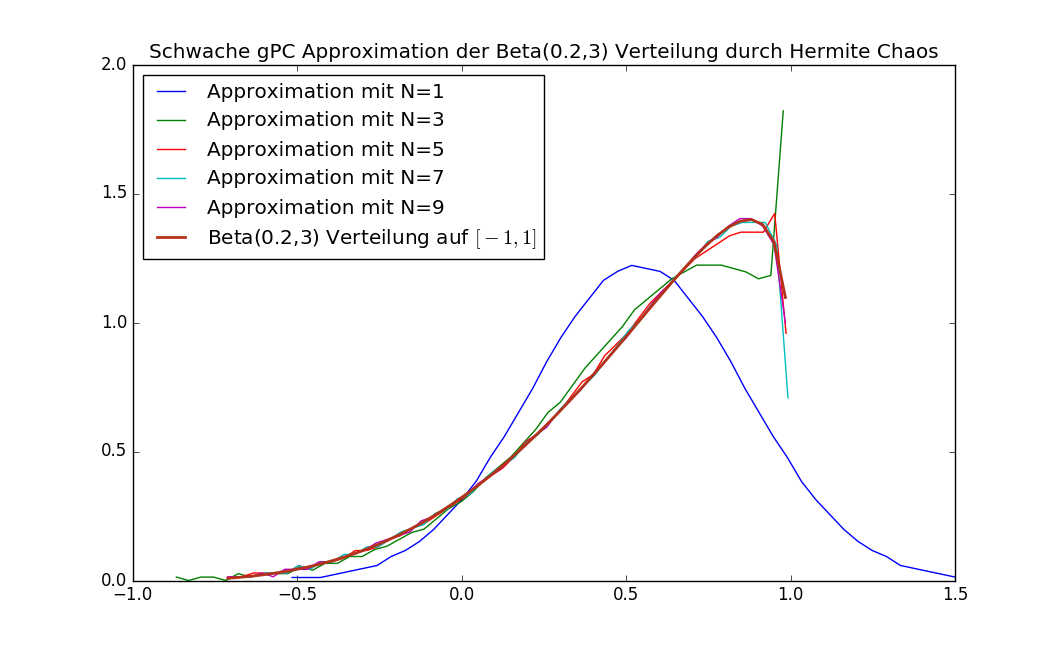
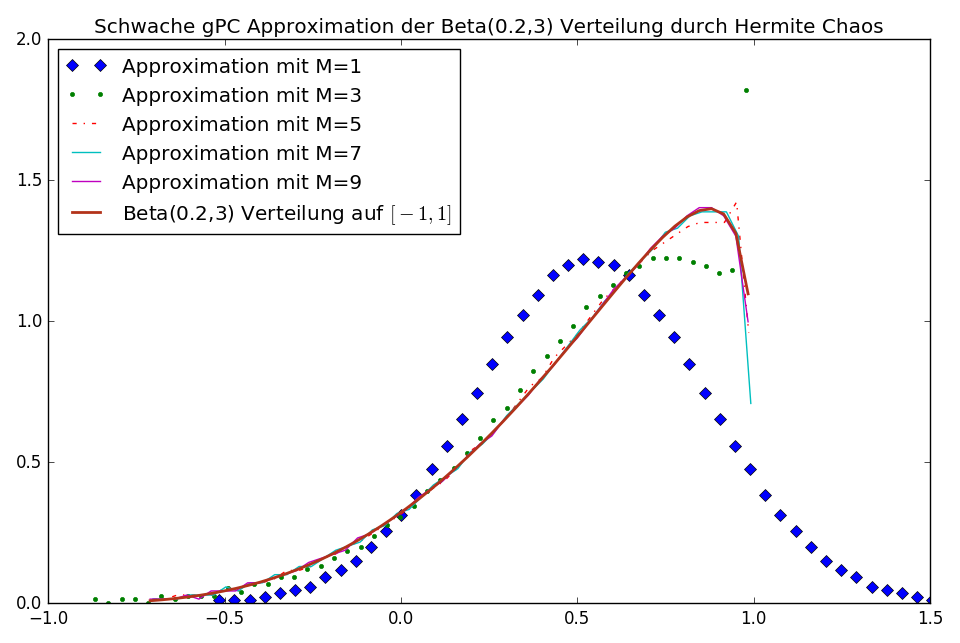
Starting chapter 4 and explaining interpolation.

diff --git a/thesis/tex/Chapters/Chapter3.tex b/thesis/tex/Chapters/Chapter3.tex
@@ -9,8 +9,8 @@ erfüllt wird.
 \begin{mathdef}[General Polynomial Chaos Basis]
 \label{def:gpc}
 Sei $Y$ eine reelle Zufallsvariable mit Verteilungsfunktion $F_Y(y)=P(Y\le y)$ und endlichen Momenten
-\[\E\left[|Y|^{2m}\right]=\int |y|^{2m}dF_Y(y)<\infty,\quad m\in \N_0\]
-Existieren Polynome $\Phi_i\in\Poly_i$ welche die Bedingung
+\[\E\left[|Y|^{2\ell}\right]=\int |y|^{2\ell}dF_Y(y)<\infty,\quad \ell\in \N_0\]
+Existieren Polynome $\Phi_i\in\Poly_i$, also insbesondere $\Phi_0\equiv const$, welche die Bedingung
 \begin{equation}
 \label{eqn:gpc_basicortho}
 \E\left[\Phi_i(Y)\Phi_j(Y)\right]=\delta_{ij},\quad i,j\in\N_0
@@ -41,23 +41,23 @@ Stetig & Normal & Hermite & $(-\infty,\infty)$ \\
  & Gleich & Legendre & $[-1,1]$ \\  
 \hline 
 Diskret & Poisson & Charlier & $\lbrace 0,1,2,\dots\rbrace$ \\ 
- & Binomial & Krawtchouk & $\lbrace 0,1,\dots,P\rbrace$ \\ 
+ & Binomial & Krawtchouk & $\lbrace 0,1,\dots,E\rbrace$ \\ 
  & Negativ Binomial & Meixner & $\lbrace 0,1,2,\dots\rbrace$ \\  
- & Hypergeometrisch & Hahn & $\lbrace 0,1,\dots,P\rbrace$
+ & Hypergeometrisch & Hahn & $\lbrace 0,1,\dots,E\rbrace$
 \end{tabular}
-\caption{gPC Beziehung zwischen orthogonalen Polynombasen und stochastischen Verteilungen. $P\in\N_0$ ist dabei ein beliebiger Parameter für gewisse diskrete Verteilungen.}
+\caption{gPC Beziehung zwischen orthogonalen Polynombasen und stochastischen Verteilungen. $E\in\N_0$ ist dabei ein beliebiger Parameter für gewisse diskrete Verteilungen.}
 \label{table:chaos}
 \end{table}
 
 Das Ziel ist es nun, mithilfe einer gPC Orthonormalbasis eine Funktion $f(Y)$ einer Zufallsvariablen $Y$ zu approximieren. Wir wollen nun einen Einblick dazu bekommen, was an dieser Stelle mit "`approximieren"' gemeint ist.
 \begin{mathdef}[Starke gPC Konvergenz]
-Sei $f(Y)$ eine Funktion einer Zufallsvariablen $Y$ mit Dichte $\rho_Y$ und Träger $I_Y$. Eine general Polynomial Chaos Approximation $f_M(Y)\in\Poly_N(Y)$ konvergiert in einem starken Sinne gegen $F(Y)$, wenn \[\norm{f(Y)-f_M(Y)}_{L_{\rho_Y}^2(I_Y)}\to 0\text{ für }{M\to\infty}\]
+Sei $f(Y)$ eine Funktion einer Zufallsvariablen $Y$ mit Dichte $\rho_Y$ und Träger $I_Y$. Eine general Polynomial Chaos Approximation $f_M(Y)\in\Poly_M(Y)$ konvergiert in einem starken Sinne gegen $F(Y)$, wenn \[\norm{f(Y)-f_M(Y)}_{L_{\rho_Y}^2(I_Y)}\to 0\text{ für }{M\to\infty}\]
 \end{mathdef}
 Die starke gPC Konvergenz entspricht also direkt der in Kapitel \ref{sec:poly_approx} vorgestellten spektralen Konvergenz, entsprechend ist die Konvergenzordnung abhängig von der Glattheit der Funktion $f$. Ohne Beweis folgt aus der starken gPC Konvergenz auch die Konvergenz in Wahrscheinlichkeit und schlussendlich die Konvergenz in Verteilung.
 \begin{mathbem}
 Ist die Funktion $f$ oder ihre Abhängigkeit von der Zufallsvariablen $Y$ nicht konkret bekannt, sondern liegt diese beispielsweise nur als Verteilungsfunktion vor, so ist es dennoch möglich eine gPC Approximation in einem schwachen Sinne zu erhalten. Für Details sei auf \autocite[Kapitel 5.1.2]{dongbinxiu2010} verwiesen.\\
-Ein illustratives Beispiel ist in Abbildung \ref{fig:gpcweakconv} gegeben. Dort verwenden wir die Bestapproximation bezüglich $L_\rho^2(-\infty,\infty)$, wobei $\rho$ die Dichtefunktion der Normalverteilung ist, die Orthonormalbasis aus den Hermite-Polynomen $H_k$ besteht und $Y$ eine normalverteilte Zufallsvariable ist. Es ist
-\[f_M(Y)=P_M(f)=\sum_{m=0}^M\hat{f}_mH_m(Y), \quad \hat{f}_m=\E[f(Y)H_m(Y)]\]
+Ein illustratives Beispiel ist in Abbildung \ref{fig:gpcweakconv} gegeben. Dort verwenden wir die Bestapproximation bezüglich $L_\rho^2(-\infty,\infty)$, wobei $\rho$ die Dichtefunktion der Normalverteilung ist, die Orthonormalbasis aus den Hermite-Polynomen $H_m$ besteht und $Y$ eine normalverteilte Zufallsvariable ist. Es ist
+\[f_M(Y)=\sum_{m=0}^M\hat{f}_mH_m(Y), \quad \hat{f}_m=\E[f(Y)H_m(Y)]\]
 die Bestapproximation an die Funktion $f(Y)$ in $\Poly_M(Y)$. Wir nehmen an, dass wir nur die Verteilung von $Z=f(Y)$ kennen und $Z\sim\text{Beta}(0.2,3.)$ in $[-1,1]$.\\
 Dann tritt bei der Berechnung von $\E[ZH_m(Y)]$ eine Schwierigkeit auf: es ist in dieser Form nicht möglich den Erwartungswert zu berechnen, da die Zufallsvariablen $Z$ und $H_m(Y)$ zu verschiedenen Wahrscheinlichkeitsräumen gehören. Hierzu ist es nun hilfreich, mithilfe der Inversionsmethode die beiden Verteilungen auf einen gemeinsamen Wahrscheinlichkeitsraum $\mathcal{U}(0,1)$ zu "`normieren"'. Dann gilt
 \[\hat{f}_m=\E_U\left[F_Z^{-1}(U)H_m(F_Y^{-1}(U))\right]=\int_0^1F_Z^{-1}(u)H_m(F_Y^{-1}(u))du\]
@@ -72,26 +72,26 @@ und $f_M(Y)$ konvergiert in Verteilung gegen $f(Y)$ für $M\to\infty$.
 \section{Mehrdimensionale Zufallsräume}
 Wie bereits diskutiert, sei der Zufallsraum durch einen Zufallsvektor $Y=(Y_1,\dots,Y_N)^T$ mit stochastisch unabhängigen Komponenten $Y_i$ mit bekannter Verteilung vollständig parametrisiert. Als mehrdimensionale Erweiterung von Definition \ref{def:gpc} führen wir an dieser Stelle das multivariate gPC ein.
 \begin{mathdef}[Multivariate gPC]
-Sei $M\in\N_0$ der fest gewählte maximale Polynomgrad. Sei weiter $Y=(Y_1,\dots,Y_N)^T$ ein Zufallsvektor, dessen unabhängige Komponenten $Y_k$ eine gPC Basis $\lbrace \Phi_i^{(k)}\in\Poly_M(Y_k)\mid i=1,\dots,M\rbrace$ besitzen. Ist $m=(m_1,\dots,m_N)\in\N_0^N$ ein Multi-Index mit $|m|=m_1+\dots+m_N$, so sind die $N$-variate gPC Basis Funktionen vom Grad $M$ definiert als 
-\[\Phi_m(Y)=\Phi_{m_1}(Y_1)\cdot\ldots\cdot\Phi_{m_N}(Y_N),\quad 0\le |m|\le M\]
+Sei $P\in\N_0$ der fest gewählte maximale Polynomgrad. Sei weiter $Y=(Y_1,\dots,Y_N)^T$ ein Zufallsvektor, dessen unabhängige Komponenten $Y_k$ eine gPC Basis $\lbrace \Phi_i^{(k)}\in\Poly_P(Y_k)\mid i=0,\dots,P\rbrace$ besitzen. Ist $m=(m_1,\dots,m_N)\in\N_0^N$ ein Multi-Index mit $|m|=m_1+\dots+m_N$, so sind die $N$-variate gPC Basis Funktionen vom Grad $P$ definiert als 
+\[\Phi_m(Y)=\Phi_{m_1}(Y_1)\cdot\ldots\cdot\Phi_{m_N}(Y_N),\quad 0\le |m|\le P\]
 \end{mathdef}
 
 \begin{mathbem}
-Der von den multivariate gPC Funktionen aufgespannte Raum $\Poly_M^N$ ist der Raum aller Polynome vom Grad höchstens $M$ in $N$ Variablen
-\[\Poly_M^N(Y)=\left\lbrace p\colon I_Y\to \R \mid p(Y)=\sum_{|m|\le M}c_m\Phi_m(Y)\right\rbrace\]
-Die Dimension des Raumes ist $\dim\Poly_M^N=\binom{M+N}{M}=\frac{(M+N)!}{M!N!}$.
+Der von den multivariate gPC Funktionen aufgespannte Raum $\Poly_P^N$ ist der Raum aller Polynome vom Grad höchstens $P$ in $N$ Variablen
+\[\Poly_P^N(Y)=\left\lbrace p\colon I_Y\to \R \mid p(Y)=\sum_{|m|\le P}c_m\Phi_m(Y)\right\rbrace\]
+Die Dimension des Raumes ist $\dim\Poly_P^N=\binom{P+N}{P}=\frac{(P+N)!}{P!N!}$.
 \end{mathbem}
 \begin{proof}
 Wir zeigen die zweite Aussage über die Dimension des Raumes. Die Beweisidee kann unter Verwendung von stochastischen Kombinationen direkt verwendet werden, um einen Algorithmus zur Generierung der Multi-Indices zu bekommen.\\
 Da die Monome $x^m=x_1^{m_1}\dots x_N^{m_N}$ für verschiedene $m=(m_1,\dots,m_N)$ linear unabhängig und erzeugend sind, ist die Aussage äquivalent zur Aussage
-\[\binom{M+N}{M}=\#\lbrace m\in\N_0^N \mid |m|\le M\rbrace\] 
-Wir berechnen dazu $a_j=\#\lbrace m\in\N_0^N \mid |m|=j\rbrace$ für $j=0,\dots,M$. Dazu überlegen wir uns, dass $a_j=\#\lbrace \overline{m}\in\N^N \mid |\overline{m}|=j+N\rbrace$ wegen der Bijektion $m=(m_1,\dots,m_N)=(\overline{m}_1-1,\dots,\overline{m}_N-1)=\overline{m}-(1,\dots,1)$. Wir wollen nun herausfinden, wieviele Zerlegungen der Zahl $j+N=|\overline{m}|$ möglich sind und schreiben dazu symbolisch
+\[\binom{P+N}{P}=\#\lbrace m\in\N_0^N \mid |m|\le P\rbrace\] 
+Wir berechnen dazu $a_j=\#\lbrace m\in\N_0^N \mid |m|=j\rbrace$ für $j=0,\dots,P$. Dazu überlegen wir uns, dass $a_j=\#\lbrace \overline{m}\in\N^N \mid |\overline{m}|=j+N\rbrace$ wegen der Bijektion $m=(m_1,\dots,m_N)=(\overline{m}_1-1,\dots,\overline{m}_N-1)=\overline{m}-(1,\dots,1)$. Wir wollen nun herausfinden, wieviele Zerlegungen der Zahl $j+N=|\overline{m}|$ möglich sind und schreiben dazu symbolisch
 \[\overline{m}=\underbrace{(1\_1\_1\_\dots 1\_1)}_{j+N\text{ Einsen getrennt von } j+N-1 \text{ Blanks}}\]
 Um eine mögliche Darstellung zu bekommen, ersetzen wir $N-1$ Blanks durch ein Komma und die restlichen durch ein Plus, beispielsweise für $j=4,N=3$
 \[(1+1+1,1,1+1+1+1+1)=(3,1,5)=\overline{m}\]
 Dies sind exakt alle Möglichkeiten $N$ positive Zahlen deren Summe $j+N$ ist zu erhalten und es ist $a_j=\binom{j+N-1}{N-1}$.
 Schlussendlich gilt für die Summe von verschobenen Binomialkoeffizienten 
-\[\sum_{j=0}^Ma_j=\sum_{j=0}^M\binom{j+N-1}{N-1}\stackrel{\text{ind.}}{=}\binom{N+M}{N}\]
+\[\sum_{j=0}^Pa_j=\sum_{j=0}^P\binom{j+N-1}{N-1}\stackrel{\text{ind.}}{=}\binom{N+P}{N}=\binom{N+P}{P}\]
 \end{proof}
 In Zukunft wird es sowohl für die theoretische Notation, als auch die praktische Implementierung häufig praktischer sein, die Multi-Indices $m\in\N_0^M$ durchzunummerieren und äquivalent zum eindimensionalen Fall zu benutzen. Dies ist gerechtfertigt, da sich die zugehörigen multivariaten Polynome ähnlich verhalten. Zum Beispiel gilt aufgrund des gewählten Tensorproduktansatzes und der stochastischen Unabhängigkeit der Komponenten von $Y$ das mehrdimensionale Pendant zur Orthogonalitätsbedingung (\ref{eqn:gpc_ortho}) für $i,j\in\N_0^N$
 \begin{equation}
@@ -104,7 +104,7 @@ In Zukunft wird es sowohl für die theoretische Notation, als auch die praktisch
 &=\delta_{i_1j_1}\dots \delta_{i_Nj_N}=\delta_{ij}
 \end{split}
 \end{equation}
-In diesem Sinne wird dann für den Fall der mehrdimensionalen Bestapproximation $P_Mf=\sum_{m=0}^M\hat{f}_mH_m(Y)$ die Beschränkung der Summe $M$ gleichgesetzt mit der Anzahl an Basispolynomen $\binom{M+N}{N}$.\\
+In diesem Sinne gilt dann für die mehrdimensionale Bestapproximation die selbe Darstellung $f_M(Y)=\sum_{m=0}^M\hat{f}_mH_m(Y)$, wobei $M+1=\binom{N+P}{P}$ die Anzahl an Basispolynomen ist und $P$ die Schranke der Multi-Indices $|m|\le P$.\\
 Für eine eindeutige Nummerierung der Indices benötigen wir eine Sortierung. Wir einigen uns als Sortierung der Indices auf die Termordnung (engl. \emph{graded lexicographic order}), die für $i,j\in\N_0^N$ gegeben ist durch 
 \[i>j \equivalent |i|\ge |j| \text{ und der erste nicht-negative Eintrag von } i-j \text { ist positiv}\]
 Für $N=3$ sind für $|m|=0,\dots,2$ die ersten Multi-Indices gegeben durch
@@ -114,11 +114,11 @@ Für $N=3$ sind für $|m|=0,\dots,2$ die ersten Multi-Indices gegeben durch
 &(2,0,0)<(1,1,0)<(1,0,1)<(0,2,0)<(0,1,1)<(0,0,2)\\
 \end{align*}
 \begin{mathbem}
-Die Wahl der beschränkten Summe $|m|\le M$ für $m\in\N_0^N$ ist eine Einschränkung an den Polynomraum, den wir für die Approximation verwenden wollen. Häufig ist für theoretische Überlegungen der volle Tensorproduktraum mit $m_i\le M$ für $i=1,\dots,N$ der Raum der Wahl, da sich dann Ergebnisse aus dem eindimensionalen direkter auf den mehrdimensionalen Fall übertragen lassen. Die Dimension des vollen Tensorproduktraumes beträgt jedoch $(M+1)^N$, was bereits für kleine Dimensionen $N$ eine große Anzahl an Basispolynomen bedeuten würde und folglich einen hohen Rechenzeitaufwand (vgl. Tabelle \ref{table:poly_space_dim}).
+Die Wahl der beschränkten Summe $|m|\le P$ für $m\in\N_0^N$ ist eine Einschränkung an den Polynomraum, den wir für die Approximation verwenden wollen. Häufig ist für theoretische Überlegungen der volle Tensorproduktraum mit $m_i\le P$ für alle $i=1,\dots,N$ der Raum der Wahl, da sich dann Ergebnisse aus dem eindimensionalen direkter auf den mehrdimensionalen Fall übertragen lassen. Die Dimension des vollen Tensorproduktraumes beträgt jedoch $(P+1)^N$, was bereits für kleine Dimensionen $N$ eine große Anzahl an Basispolynomen bedeuten würde und folglich einen hohen Rechenzeitaufwand (vgl. Tabelle \ref{table:poly_space_dim}).
 \begin{table}
 \centering
 \begin{tabular}{c|cc}
-$M$ & $\binom{N+M}{N}$ & $(M+1)^N$\\
+$P$ & $\binom{P+M}{P}$ & $(P+1)^N$\\
 \hline
 1  &  5  &  16 \\
 2  &  15  &  81 \\
@@ -128,7 +128,7 @@ $M$ & $\binom{N+M}{N}$ & $(M+1)^N$\\
 10  &  1,001  &  14,641 \\
 100  &  4,598,126  &  104,060,401 
 \end{tabular}
-\caption{Vergleich der Dimensionen der verschiedenen Approximationsräume für $N=4$ und unterschiedliche $M$.}
+\caption{Vergleich der Dimensionen der verschiedenen Approximationsräume für $N=4$ und unterschiedliche $P$.}
 \label{table:poly_space_dim}
 \end{table}
 \end{mathbem}
@@ -136,7 +136,7 @@ Als weitere Motivation für unsere Wahl des Polynomraums geben wir ein Beispiel 
 \begin{mathbsp}
 \label{bsp:bestapproxcoeffs2d}
 Sei $N=2, Y=(Y_1,Y_2)^T$ mit $Y_1\sim \mathcal{U}(-1,1), Y_2\sim\mathcal{N}(0,1)$ und die zu approximierende Funktion $f(y)=f(y_1,y_2)=(2+\sin(y_1\cdot y_2))^{-2}$.\\
-Wir betrachten die Koeffizienten $\hat{f}_m$ der Bestapproximation \[P_Mf(y)=\sum_{m_1=0}^M\sum_{m_2=0}^M\hat{f}_m\Phi_m(y)\] im vollständigen Tensorproduktraum. Dabei wählen wir die zu den Verteilungen passenden Polynome $\Phi_m(y)=L_{m_1}(y_1)H_{m_2}(y_2)$, wobei $L_{m_1}$ die normierten Legendre-Polynome und $H_{m_2}$ die normierten Hermite-Polynome sind. Für die Koeffizienten gilt
+Wir betrachten die Koeffizienten $\hat{f}_m$ der Bestapproximation \[f_M(y)=\sum_{m_1=0}^P\sum_{m_2=0}^P\hat{f}_m\Phi_m(y)\] im vollständigen Tensorproduktraum. Dabei wählen wir die zu den Verteilungen passenden Polynome $\Phi_m(y)=L_{m_1}(y_1)H_{m_2}(y_2)$, wobei $L_{m_1}$ die normierten Legendre-Polynome und $H_{m_2}$ die normierten Hermite-Polynome sind. Für die Koeffizienten gilt
 \[\hat{f}_m=\int_{-1}^1\int_{-\infty}^\infty f(y_1,y_2)\cdot \onehalf \cdot \frac{1}{\sqrt{2\pi}}e^{-\frac{y_2^2}{2}}\cdot L_{m_1}(y_1)\cdot H_{m_2}(y_2)dy_2dy_1\]
 In Abbildung \ref{fig:bestapproxcoeffs2d} ist der Betrag der Koeffizienten $|\hat{f}_m|$ in einem Gitter eingezeichnet. Die schwarze Linie symbolisiert die Grenze derjenigen Indices, die $|m|\le 22$ erfüllen. Wir sehen, dass die Koeffizienten im oberen rechten Eck, die zu Polynomen wie $L_{17}H_{17}$ gehören, betragsmäßig sehr klein in der Größenordnung $10^{-6}$ sind. Die volle Tensorapproximation bietet in diesem Fall also nur geringe Vorteile gegenüber der Approximation mit $|m|\le 22$. Der Verzicht auf diejenigen Polynome mit hohem gemischten Grad $|m|$ erspart also viel Aufwand und bietet dennoch eine gute Approximation, da das Abklingverhalten der Koeffizienten häufig durch die eingezeichnete Diagonale dominiert wird.
 \begin{figure}[!htb]
@@ -147,31 +147,34 @@ In Abbildung \ref{fig:bestapproxcoeffs2d} ist der Betrag der Koeffizienten $|\ha
 \end{mathbsp}
 
 \section{Extraktion von Statistiken}
-Gegeben sei die multivariate gPC Approximation mit Summenschranke $M$ zu einer Funktion $f(Y)$ und einem Zufallsvektor $Y$ der Dimension $N$, also
-\[f(Y)\approx f_N(Y)=\sum_{|m|\le M}\hat{f}_m\Phi_m(Y)\in\Poly_M^N,\quad m\in\N_0^N\]
+Gegeben sei die multivariate gPC Approximation mit Summenschranke $P$ zu einer Funktion $f(Y)$ und einem Zufallsvektor $Y$ der Dimension $N$, also
+\[f(Y)\approx f_M(Y)=\sum_{|m|\le P}\hat{f}_m\Phi_m(Y)\in\Poly_P^N,\quad m\in\N_0^N\]
 Unter Ausnutzung der Orthogonalitätsbedingung (\ref{eqn:gpc_ortho_mv}) der Polynombasen lassen sich gewisse Statistiken der gPC Approximation auf sehr einfache Art und Weise berechnen. Schlussendlich ist dies eine der größten Motivationen für die jeweilige Wahl der zur Verteilung passenden Orthogonalbasis.\\
 Es ist $\gamma_{(0,\dots,0)}=1$, da für jede Wahrscheinlichkeitsverteilung $\gamma_0=\E[\Phi_0^2(Y)]=\int 1\cdot 1dF_Y(y)=1$. Folglich gilt $\Phi_{(0,\dots,0)}(Y)\equiv 1$ und für den Erwartungswert $\mu_f$
-\begin{align*}
-\mu_f=\E[f(Y)]\approx \E[f_N(Y)]&=\int\left(\sum_{|m|\le M}\hat{f}_m\Phi_m(Y)\right)dF_Y(y)\\
-&=\sum_{|m|\le M}\hat{f}_m\int\Phi_m(Y)dF_Y(y)\\
-&=\sum_{|m|\le M}\hat{f}_m\E[\underbrace{\Phi_{(0,\dots,0)}(Y)}_{\equiv 1} \Phi_m(Y)]\\
-&=\sum_{|m|\le M}\hat{f}_m\delta_{(0,\dots,0),m}=\hat{f}_{(0,\dots,0)}
-\end{align*}
+\begin{equation}
+\label{eqn:gpc_approx_exp}
+\begin{split}
+\mu_f=\E[f(Y)]\approx \E[f_N(Y)]&=\int\left(\sum_{|m|\le P}\hat{f}_m\Phi_m(Y)\right)dF_Y(y)\\
+&=\sum_{|m|\le P}\hat{f}_m\int\Phi_m(Y)dF_Y(y)\\
+&=\sum_{|m|\le P}\hat{f}_m\E[\underbrace{\Phi_{(0,\dots,0)}(Y)}_{\equiv 1} \Phi_m(Y)]\\
+&=\sum_{|m|\le P}\hat{f}_m\delta_{(0,\dots,0),m}=\hat{f}_{(0,\dots,0)}
+\end{split}
+\end{equation}
 Die Varianz lässt sich dann berechnen als
 \begin{align*}
 \sigma^2_f=\text{var}(f(Y))&=\E[f^2(Y)]-\E[f(Y)]^2\\
-&\approx \sum_{|m|\le M}\sum_{|n|\le M}\hat{f}_m\hat{f}_n\underbrace{\E[\Phi_m(Y)\Phi_n(Y)]}_{=\delta_{mn}}-\hat{f}_{(0,\dots,0)}^2\\
-&=\sum_{0<|m|\le M}\hat{f}_m^2
+&\approx \sum_{|m|\le P}\sum_{|n|\le P}\hat{f}_m\hat{f}_n\underbrace{\E[\Phi_m(Y)\Phi_n(Y)]}_{=\delta_{mn}}-\hat{f}_{(0,\dots,0)}^2\\
+&=\sum_{0<|m|\le P}\hat{f}_m^2
 \end{align*}
 Die Standardabweichung ist folglich gegeben durch
-\[\sigma_f=\sqrt{\text{var}(f(Y))}\approx\sqrt{\sum_{0<|m|\le M}\hat{f}_m^2}\]
+\[\sigma_f=\sqrt{\text{var}(f(Y))}\approx\sqrt{\sum_{0<|m|\le P}\hat{f}_m^2}\]
 Für höhere Momente gilt
 \begin{align*}
-\E[f^k(Y)]\approx \sum_{|m^{(1)}|,\dots,|m^{(k)}|\le M} \hat{f}_{m^{(1)}}\dots\hat{f}_{m^{(k)}}\underbrace{\E[\Phi_{m^{(1)}}(Y)\dots\Phi_{m^{(k)}}(Y)]}_{=\mathcal{T}_{m^{(1)},\dots m^{(k)}}}
+\E[f^\ell(Y)]\approx \sum_{|m^{(1)}|,\dots,|m^{(\ell)}|\le P} \hat{f}_{m^{(1)}}\dots\hat{f}_{m^{(\ell)}}\underbrace{\E[\Phi_{m^{(1)}}(Y)\dots\Phi_{m^{(\ell)}}(Y)]}_{=\mathcal{T}_{m^{(1)},\dots m^{(\ell)}}}
 \end{align*}
-Die Berechnung benötigt also für $k>2$ eine einmalige Berechnung des Tensors $\mathcal{T}$. Dieser ist unabhängig von der betrachten Funktion $f$ und kann somit wieder verwendet werden.
+Die Berechnung benötigt also für $\ell>2$ eine einmalige Berechnung des Tensors $\mathcal{T}$. Dieser ist unabhängig von der betrachten Funktion $f$ und kann somit wieder verwendet werden.
 \begin{mathbsp}
-Für $N=1$ und $k=3$ ist der Momententensor $\mathcal{T}$ für $Y\sim \mathcal{N}(0,1)$ und zugehöriger orthonormaler Polynombasis $H_m$ der Hermite-Polynome für $M=2$ gegeben durch
+Für $N=1$ und $\ell=3$ ist der Momententensor $\mathcal{T}$ für $Y\sim \mathcal{N}(0,1)$ und zugehöriger orthonormaler Polynombasis $H_m$ der Hermite-Polynome für $P=2$ gegeben durch
 \[\mathcal{T}=
 \begin{tikzpicture}[every node/.style={anchor=north east,fill=white,minimum width=0.7cm,minimum height=7mm}]
 \matrix (mA) [draw,matrix of math nodes]

diff --git a/thesis/tex/Chapters/Chapter4.tex b/thesis/tex/Chapters/Chapter4.tex
@@ -1,4 +1,62 @@
 % Chapter 4
 
 \chapter{Stochastische Collocation}
+Wie bereits die Monte-Carlo-Methode basieren auch stochastische Collocationsverfahren auf \emph{sampling}, d.h. der wiederholten Auswertung von vielen Zufallsexperimenten. Bei der Monte-Carlo-Methode werden die Punkte dabei abhängig von der gegebenen Verteilung unabhängig und zufällig gewählt. Die Konvergenz ist in einem stochastischen Sinne durch das Gesetz der großen Zahlen gegeben.\\
+Dies ist ein großer Unterschied zu den hier vorgestellten stochastischen Collocationsverfahren. Für diese werden die Collocationspunkte nicht zufällig, sondern so gewählt, dass mithilfe von ihnen eine Polynominterpolation oder Quadratur möglich ist. Konvergenz ist dann abhängig davon, wie gut sich die approximierte stochastische Größe durch Polynome von Zufallsvariablen approximieren lässt.\\
+Die beiden Ansätze \emph{Interpolation} und \emph{diskrete Projektion} (auch \emph{pseudospektraler Ansatz} genannt) werden für die stochastische KGG im Folgenden detailliert vorgestellt und miteinander verglichen.
+\section*{Collocation für die stochastische KGG}
+Die stochastische KGG (\ref{skgg}) für $d$ räumliche Dimensionen, $N$ stochastische Dimensionen und $y\in\R^N$ war definiert durch
+\begin{align*}
+\dtt{u}(t,x,y)&=\alpha(y) \Laplace_x u(t,x,y) - \beta(x,\omega)u(t,x,y), \: t>0, \, x\in \Torus^d\\
+u(0,x,y)&=u_0(x,y), \: x\in \Torus^d\\
+\dt{u}(0,x,y)&=v_0(x,y), \: x\in \Torus^d
+\end{align*}
+Im klassischen Sinne bedeutet Collocation, dass eine Approximation für eine diskrete Knotenmenge $\Theta_S=\lbrace y_i\in\R^N\mid i=1,\dots,S\rbrace$ exakt ist. Auf die stochastische KGG übertragen, muss also für $y=y_i\in\Theta_S$ die Lösung $u(t,x,y_i)$ für $x\in\Torus^d$ und $t>0$ vorliegen und die Approximation $w$ erfüllt $w(t,x,y_i)=u(t,x,y_i)$ für $i=1,\dots,S$. Da wir die exakte Lösung $u(t,x,y_i)$ nicht kennen, sondern für einen Zeitpunkt $T>0$ und eine Knotenmenge $\lbrace x_j\in\Torus^d\mid j=1,\dots,H\rbrace$ nur mithilfe des Strang-Splittings approximieren können, gilt also für festes $x_j$ die Collocationsbedingung lediglich approximativ:
+\[w(T,x_j,y_i)=u(T,x_j,y_i)\approx \tilde{u}(T,x_j,y_i),\quad i=1,\dots,S\]
+Wir wählen daher $\tau$ so klein, dass dieser Fehler im Vergleich zum eigentlichen Collocationsfehler vernachlässigbar gering ist. Zur Vereinfachung der Notation nehmen wir im Folgenden an, die Lösung $u(T,x_j,y_i)$ liege exakt vor.
+
+\section{Interpolation}
+Sei $Y$ ein $N$-dimensionaler Zufallsvektor mit stochastisch unabhängigen Komponenten und $\Theta_S\subset I_Y$ eine zu den Verteilungen von $Y_i$ passende $S$ elementige Knotenmenge. Seien weiter $\lbrace \Phi_m \mid |m|\le P \rbrace$ die zu den Verteilungen passenden gPC Basisfunktionen und im Folgenden mit $m=0,\dots M=\binom{N+P}{P}-1$ durchnummeriert. Eine Diskussion zur Nummerierung findet man im vorherigen Kapitel.\\
+Dann wählen wir als Interpolationspolynom die Funktion
+\begin{equation}
+\label{eqn:coll_interpol_basic}
+w_M^{(j)}(Y)=\sum_{m=0}^M\hat{w}_m^{(j)}\Phi_m(Y)\in\Poly_P^N(Y),\quad j=1,\dots,H
+\end{equation}
+und fordern als Interpolationsbedingung
+\[w_M^{(j)}(y_i)=u(T,x_j,y_i),\quad i=1,\dots,S, j=1,\dots,H\]
+Die Notation macht klar, dass wir zu einem gegebenen Zeitpunkt $T>0$ und jedem festen Knotenpunkt $x_j$ die stochastische Funktion $u(T,x_j,Y)$ durch ein Polynom in $Y$ approximieren wollen.\\
+Betrachten wir die Gleichung (\ref{eqn:coll_interpol_basic}) in den Knotenpunkten $y_i$ für jedes $i=1,\dots,S$, so können wir das entstehende System kompakt schreiben als
+\[A\hat{w}=u\]
+mit 
+\begin{align*}
+A&=(\Phi_m(y_i))_{i=1,\dots,S;m=0,\dots,M}\in\R^{S\times M+1}\\
+\hat{w}&=(\hat{w}_m^{(j)})^T_{m=0,\dots,M;j=1,\dots,H}\in\R^{M+1\times H}\\
+u&=(u(T,x_j,y_i)^T_{i=1,\dots,S;j=1,\dots,H}\in\R^{S\times H}\\
+\end{align*}
+Für jeden Knotenpunkt $x_j$ ist also ein lineares Gleichungssystem der Größe $S\times M+1$ zu lösen. Die obige Schreibweise erlaubt es in vielen Programmiersprachen die Systeme gleichzeitig zu lösen und bietet somit einen starken Laufzeitvorteil gegenüber dem Lösen von $H$ separaten Gleichungen. Um sicherzustellen, dass das System nicht unterbestimmt ist, muss gelten $S\ge M+1=\binom{N+P}{P}$. Ist $S\neq M+1$, so verwenden wir die Pseudoinverse von $A$. Später werden wir an verschiedenen Beispielen Konsequenzen dieser Bedingung genauer betrachten.
+\begin{mathbem}
+In Gleichung (\ref{eqn:gpc_approx_exp}) wurde gezeigt, dass sich der Erwartungswert approximieren lässt durch
+\[\E[u(t,x_j,Y)]\approx \hat{w}_0\]
+Da die Gleichungen gekoppelt sind, müssen aber trotzdem auch alle anderen $\hat{w}_m$ berechnet werden. Dies wird beim anschließend vorgestellten Collocationsansatz nicht der Fall sein.
+\end{mathbem}
+\subsection{Wahl der Interpolationspunkte}
+Wir wollen direkt am Anfang darauf hinweisen, dass die Wahl der Knotenpunkte für die Interpolation insbesondere im mehrdimensionalen für $N>1$ ein nicht vollständig verstandenes Problem darstellt. Das Konzept der Lagrange-Interpolation, die im eindimensionalen für jede beliebige Knotenmenge möglich ist, lässt sich wie in \autocite{San07} gezeigt konzeptuell auf den mehrdimensionalen Fall erweitern. Allerdings benötigt sie die entsprechende Bedingung $\det(A)\neq 0$, welche besagt, dass die Interpolation durch die gegebenen Knotenpunkte eindeutig ist. Die Beziehung dieser Bedingung zur Wahl der Knotenpunkte stellt ein "'komplexes Problem"' dar.
+\subsubsection*{Grundlagen der eindimensionalen Interpolation}
+Der Satz von Cauchy der erste Orientierungspunkt für die Abhängigkeit der Interpolationsgüte zur Wahl der Knotenpunkte für den eindimensionalen Fall und einem kompakten Intervall.
+\begin{maththeorem}[Cauchy]
+Sei $f\in C^{n+1}[-1,1]$ eine $n+1$ mal stetig differenzierbare Funktion. Dann ist für jede Knotenmenge $\lbrace y_1,\dots,y_{n+1}\rbrace$ und $y\in[-1,1]$ der Interpolationsfehler gegeben durch
+\[f(y)-\mathcal{Q}_{n+1}f=\frac{f^{(n+1)}(\xi)}{(n+1)!}\prod_{i=1}^{n+1}(y-y_i),\quad \xi\in [-1,1]\]
+\end{maththeorem}
+
+Da die Funktion gegeben ist, hat man keinen Einfluss auf die Ableitung $f^{(n+1)}$. Wegen
+\[\norm{f(y)-\mathcal{Q}_{n+1}f}\le \frac{\norm{f^{(n+1)}}_\infty}{(n+1)!}\underbrace{\norm{\prod_{i=1}^{n+1}(y-y_i)}}_{=w(y)}\]
+ist also das Ziel, abhängig von der Norm, den Term $\norm{w(y)}$ zu minimieren.
+\begin{mathbem}[Tschebyschow-Interpolation]
+Die Nullstellen $y_i=\cos\left(\frac{2i+1}{2n+2}\right)$, für $i=0,\dots,n$, der Tschebyschow-Polynome $T_{n+1}(y)=\cos((n+1)\arccos(y))$ minimieren den Ausdruck $\norm{w(y)}_\infty$ auf $[-1,1]$ und bieten auf $[-1,1]$ optimale Interpolationsgüte. Es gilt 
+\[\norm{f(y)-\mathcal{Q}_{n+1}f}\le \frac{\norm{f^{(n+1)}}_\infty}{2^n(n+1)!}\]
+\end{mathbem}
+\todo[inline]{maybe show that instead of thebyschow also roots of other orthogonal polynomials are possible and usuable and show equivalence to discrete projection (which is not yet explained but except for aliasing error it is the same as the bestapprox)}
+\todo[inline]{Smolyak Konstruktion in Kapitel drei erklären? (für Punkte Gitter wie bei Interpol benötigt aber auch für allgemeine Operatoren?)}
+\todo[inline]{1d interpolation verstanden (gauß interpol, andere auch möglich und gut); mehrdim aber problematisch: wie punkte wählen (tensor, andere ansätze wie smolyak sparse grid)} 
+
 \todo[inline]{Interpolation;Quadratur (Xiu Kap7) mit Gauß, Glenshaw-Curtis; smolyak sparse grids (fully nested failed, weakly nested and non nested; discrete projection;Äquivalenz von Interpol + diskr proj (zumindest mal in 1d, mehr bei entspr nodes/weights?)}

diff --git a/thesis/tex/Chapters/Chapter1.tex b/thesis/tex/Chapters/Chapter1.tex
@@ -568,7 +568,7 @@ Ist $I$ ein beschränktes Intervall und $f\in C^0(\bar{I})$ stetig, dann gibt es
 \end{maththeorem}
 Folglich gilt für die \emph{gleichmäßige Bestapproximation} $\phi_n$, welche zu $f\in C^0(\bar{I})$ eine eindeutige Lösung $\phi_n(f)\in\Poly_n$ mit minimaler Maximumsnorm ergibt, die Aussage
 \[\lim\limits_{n\to\infty}\norm{f-\phi_n(f)}_\infty=0\] 
-Dieses Ergebnis sieht sehr vielversprechend aus, jedoch wurde von Faber in \autocite{faber14} gezeigt, dass es kein Interpolationsschema gibt, das für alle stetigen Funktionen auf diese Weise konvergiert. Doch dieser vermeintliche Rückschlag ist in der Praxis selten von Bedeutung! Problematisch sind Interpolationsschemata, die beispielsweise auf gleichverteilten Knotenpunkten basieren und dann unter dem Runge-Phänomen leiden, welches bei Funktionen wie $f(x)=\frac{1}{1+x^2}$ an den Rändern für eine schlechte Approximationsgüte sorgt. Erfüllt $f$ jedoch minimale Glattheitsanforderungen (wie bereits Lipschitzstetigkeit) und verwendet man Chebyshev Interpolationspunkte, so ist die Approximationsgüte bereits bereits für kleines $n$ gesichert.\\
+Dieses Ergebnis sieht sehr vielversprechend aus und Interpolation ist eine naheliegende erste Idee, wie $\phi_n(f)$ berechenbar sein könnte. Jedoch wurde von Faber in \autocite{faber14} gezeigt, dass es kein Interpolationsschema gibt, das für alle stetigen Funktionen auf diese Weise konvergiert. Doch dieser vermeintliche Rückschlag ist in der Praxis selten von Bedeutung! Problematisch sind nur Interpolationsschemata, die auf gleichverteilten Knotenpunkten basieren und dann unter dem Runge-Phänomen leiden, welches bei Funktionen wie $f(x)=\frac{1}{1+x^2}$ an den Rändern für eine schlechte Approximationsgüte sorgt. Erfüllt $f$ jedoch minimale Glattheitsanforderungen (wie bereits Lipschitzstetigkeit) und verwendet man Chebyshev Interpolationspunkte, so ist die Approximationsgüte bereits bereits für kleines $n$ gesichert.\\
 Man beachte, dass der Name "`Bestapproximation"' sich strikt auf die verwendete Norm bezieht. Punktweise Aussagen lassen sich somit im Allgemeinen nicht treffen. 
 \begin{mathbsp}
 Als Beispiel vergleichen wir die Bestapproximation bezüglich der Maximumsnorm und die Chebyshev Interpolation vom Grad $N=100$ von der Funktion $f(x)=|x-\frac{1}{4}|$ in $[-1,1]$. Wie wir an Abbildung \ref{polyapproxcomp} erkennen, ist der maximale Fehler der Bestapproximation zwar geringer, aber tritt an $N+2$ Punkten auf, wohingegen der Fehler der Chebyshev Approximation zu den Rändern hin stark abnimmt. Dies soll verdeutlichen, dass die Bestapproximation nicht immer in jedem Sinne die "`beste"' Approximation darstellt.

diff --git a/thesis/tex/Chapters/Chapter2.tex b/thesis/tex/Chapters/Chapter2.tex
@@ -64,7 +64,7 @@ und skaliert durch
 Dann konvergiert für $n\to\infty$ die Verteilungsfunktion von $Z_n$ zu einer $\mathcal{N}(0,1)$ verteilten Verteilungsfunktion.
 \end{maththeorem}
 \begin{mathdef}[Zufallsvektoren]
-Wir nennen $Y=(Y_1,\dots,Y_n)$ einen $n$-dimensionalen Zufallsvektor (häufig auch einfach $n$-dimensionale Zufallsvariable), wenn die Komponenten $Y_1,\dots,Y_n\colon\Omega\to\R$ eindimensionale reelle Zufallsvariablen sind. Besitzt jede Komponente $Y_i$ eine Dichte $\rho_{Y_i}$, so ist die gemeinsame Dichte
+Wir nennen $Y=(Y_1,\dots,Y_n)$ einen $n$-dimensionalen Zufallsvektor (häufig auch einfach $n$-dimensionale Zufallsvariable), wenn die Komponenten $Y_1,\dots,Y_n\colon\Omega\to\R$ eindimensionale reelle Zufallsvariablen sind. Sind die Komponenten $Y_i$ stochastisch unabhängig und besitzt jede Komponente $Y_i$ eine Dichte $\rho_{Y_i}$, so gilt die wichtige Darstellung der gemeinsamen Dichtefunktion $\rho_Y$
 \[\rho_Y=\prod_{i=1}^n \rho_{Y_i}\]
 und die Verteilungsfunktion lässt sich darstellen als
 \[F_Y(y_1,\dots,y_n)=\int_{-\infty}^{y_1}\dots\int_{-\infty}^{y_n}\rho_Y(z_1,\dots,z_n)dy_1\dots dy_n\]

diff --git a/demo/stochastic_trials.py b/demo/stochastic_trials.py
@@ -153,3 +153,15 @@ trial_discont_simple = StochasticTrial([distributions.make_uniform(-1, 1)],
                     "alpha", lambda ys: 2. if ys[0] > 0. else 1.,
                     "expectancy_data", "../data/qmc_exp, 100000, TrialDiscontSimple, 0.5, 128.npy",
                     "variance_data", "../data/qmc_var, 100000, TrialDiscontSimple, 0.5, 128.npy")
+
+
+def reg_alpha(ys):
+    # result must be smaller than 1/4 and bigger than 0
+    return 0.1 + 0.05 * np.sin(sum(ys))
+trial_reg0 = StochasticTrial([distributions.make_beta(3, 0.5), distributions.make_uniform(-2, 2)],
+                             lambda xs, ys: (np.sin(sum(xs) + sum(ys)) ** 2 - 0.5) * np.sin(sum(ys)),
+                             lambda xs, ys: (np.sin(sum(xs) + sum(ys)) ** 2 - 0.5) * np.cos(sum(ys)),
+                             lambda xs, t, ys: (np.sin(sum(xs) + sum(ys)) ** 2 - 0.5) * np.sin(t + sum(ys)),
+                             name="TrialReg0") \
+    .add_parameters("beta", lambda xs, ys: 1 - 4 * reg_alpha(ys),
+                    "alpha", reg_alpha)

diff --git a/demo/distribution_gpc.py b/demo/distribution_gpc.py
@@ -44,7 +44,7 @@ def gpc_approx(y, factors):
     return sum(factor * hermite_basis(m)(y) for factor, m in zip(factors, range(len(factors))))
 
 bin_centers = None
-for approx_order in approx_orders_P:
+for marker, approx_order in zip(["D", ".", "-.", "-", "-", "-", "-"], approx_orders_P):
     # Calculate discrete distribution (=histogram) of the gpc approximation by sampling
     samples_count = 2000  # how many samples of the normal distribution to draw
     # samples = rnd.normal(0., 1., samples_count)  # directly generate normally distributed samples,
@@ -59,7 +59,7 @@ for approx_order in approx_orders_P:
     bin_centers = bin_edges[:-1] + (bin_edges[1:] - bin_edges[:-1]) / 2
 
     # Plotting of the demo approximation
-    plt.plot(bin_centers, hist, label="Approximation mit N=" + str(approx_order))
+    plt.plot(bin_centers, hist, marker, label="Approximation mit M=" + str(approx_order))
 
 
 plt.title("Schwache gPC Approximation der Beta(0.2,3) Verteilung durch Hermite Chaos")

diff --git a/polynomial_chaos/distributions.py b/polynomial_chaos/distributions.py
@@ -92,7 +92,7 @@ def make_gamma(shape, rate):
                                    if x > 0. else 0.),
                         (0, inf),
                         partial(random.gammavariate, shape, 1. / rate),
-                        inverse_distribution=partial(stats_gamma.ppf, a=shape, rate=1./rate),
+                        inverse_distribution=partial(stats_gamma.ppf, a=shape, rate=1./rate),  # TODO parameters incorrect
                         show_name="Gamma({}, {})".format(shape, rate),
                         parameters=(shape, rate))
 

diff --git a/thesis/tex/main.tex b/thesis/tex/main.tex
@@ -270,7 +270,7 @@ $\Laplace$ & Laplace& Laplace Operator im Ort $\Laplace u(x_1,x_2)=u_{x_1x_1}(x_
 % Uncomment the lines as you write the Appendices
 
 \include{Appendices/AppendixA}
-%\include{Appendices/AppendixB}
+\include{Appendices/AppendixB}
 %\include{Appendices/AppendixC}
 
 %----------------------------------------------------------------------------------------

diff --git a/demo/monte_carlo.py b/demo/monte_carlo.py
@@ -23,7 +23,7 @@ do_quasi_monte_carlo = True
 # the factor of the step number between two consecutive solutions used to estimate order of convergence
 order_factor = 10  # >=2, integer
 
-trial = st.trial_4
+trial = st.trial_reg0
 
 splitting_xs, splitting_xs_mesh, expectancy, variance, expectancy_errors, variance_errors, \
     solutions, solutions_for_order_estimate = \
